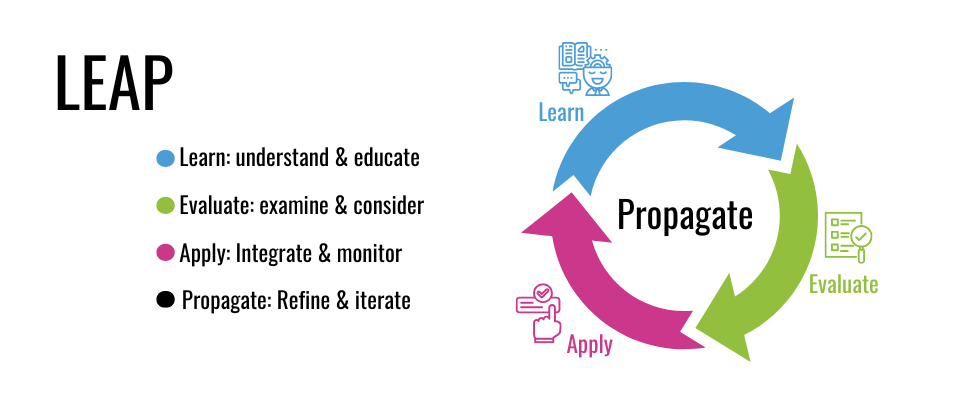
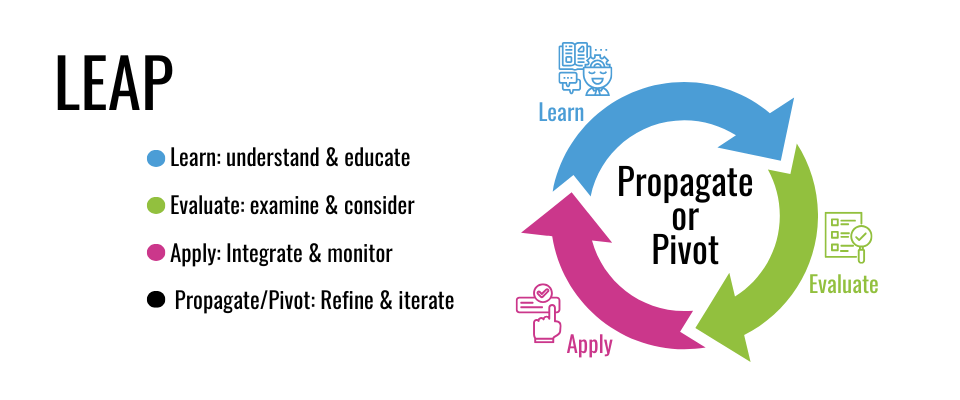
feat: update presentation slides with new LEAP image and refine content for clarity and consistency

diff --git a/theme/styles/layout.css b/theme/styles/layout.css
@@ -13,7 +13,7 @@
 }
 
 .slidev-layout {
-  @apply p-10 h-full flex flex-col;
+  @apply p-10 h-full flex flex-col text-xl;
 
   h1,
   h2,
@@ -30,11 +30,11 @@
   }
 
   h1 {
-    @apply text-6xl mb-4;
+    @apply text-5xl mb-4;
   }
 
   h2 {
-    @apply text-4xl;
+    @apply text-3xl;
   }
 
   h3 {
@@ -60,6 +60,10 @@
 
   h1 + p {
     @apply -mt-3 opacity-70;
+  }
+
+  p {
+    @apply text-xl;
   }
 
   p + h2,
@@ -111,7 +115,7 @@
 
   b,
   strong {
-    @apply font-600;
+    @apply font-900;
   }
 
   kbd {

diff --git a/slides.md b/slides.md
@@ -87,14 +87,14 @@ layout: default
 
 ---
 layout: new-section
-sectionImage: /images/LEAP.png
+sectionImage: /images/LEAP-cycle.png
 imageWidth: 512
-imageHeight: 341
+imageHeight: 512
 ---
 
 # Introducing the LEAP Framework: A Practical Compass
 
-## Learn, Experiment, Assess, Propagate/Plan
+## Learn, Experiment, Assess, Propagate/Pivot
 
 ---
 layout: default
@@ -115,7 +115,7 @@ sectionImage: /images/core-principles.jpg
 
 # Core Principles of Effective AI Adoption
 
-## Foundational to Smart Adoption and LEAP
+## Foundational Principals to Smart Adoption & LEAP
 
 ---
 layout: default
@@ -123,9 +123,9 @@ layout: default
 
 # Six Core Principles
 
-- **Strategic Alignment:** AI initiatives must solve specific problems aligned with business goals. Define _why_ before _what_.
+- **Strategic:** AI initiatives must solve specific problems aligned with business goals. Define _why_ before _what_.
 - **Data Readiness & Governance:** Strong data quality, accessibility, security, and governance are essential. Poor data leads to failure.
-- **Skills & Culture:** Requires technical skills and a supportive culture encouraging experimentation and learning.
+- **Skills & Culture:** Requires technical skills and a supportive culture encouraging experimentation, sharing, and learning.
 - **Technology & Infrastructure:** Select the right tools compatible with existing workflows.
 - **Ethics & Responsibility:** Integrate ethical considerations (fairness, transparency, privacy, security) from the start.
 - **Iterative Approach:** Start with small pilots, learn, and scale successful initiatives.
@@ -134,7 +134,7 @@ layout: default
 layout: new-section
 ---
 
-# The LEAP Framework for Software Teams
+# The LEAP Framework for Teams
 
 ## Actionable Steps for Smart Adoption
 
@@ -146,12 +146,17 @@ layout: default
 
 - **Understand AI capabilities and limitations**.
 - **Activities:**
-  - Identify pain points in the SDLC.
+  - Identify pain points in your process.
   - Research relevant AI tools and advancements.
   - Assess team skills and identify gaps.
   - Evaluate data availability and quality.
   - Consider ethical and security implications.
-  - Define **SMART goals** for experiments.
+  - Define **SMART** goals for experiments.
+    1.  Specific
+    2.  Measurable
+    3.  Achievable
+    4.  Relevant
+    5.  Time-bound
 - **Output:** Prioritized use cases, readiness assessment, defined success metrics.
 
 ---
@@ -161,7 +166,7 @@ layout: default
 # EXPERIMENT
 
 - Focus on small-scale, controlled pilots to test hypotheses.
-- **Activities:**
+- **Activities**
   - Select a low-risk pilot project.
   - Choose specific AI tool/model.
   - Develop and execute a prototype or limited integration.
@@ -169,7 +174,7 @@ layout: default
 - **Output:** Working prototype, performance data, developer feedback, lessons learned.
 - **Share:** Share your prototype, performance data, feedback, and those lessons learned.
 
-## Experimenting and sharing is large part of expanding the usage and benefits of AI
+## Experimenting and sharing is a large part of expanding the usage and benefits of AI
 
 ---
 layout: default
@@ -446,12 +451,13 @@ layout: default
 layout: default
 ---
 
-# The Enduring Value of LEAP
+# The Value of LEAP
 
-- A practical, repeatable process for wise AI adoption.
-- **Learn** thoroughly before acting.
+- A simple, practical, repeatable process for wise AI adoption.
+- **Learn** before acting.
 - **Experiment** in a controlled manner.
 - **Assess** results critically.
+- **Share** the results and lessons learned
 - **Propagate/Plan** successful initiatives sustainably.
 - Integrates data, skills, ethics, and governance.
 - Fits naturally with agile development.
@@ -468,6 +474,12 @@ layout: default
 - Define a clear goal for a small experiment.
 - Start the LEAP cycle and embrace the learning process.
 - Chart a course for wise AI adoption that delivers real value.
+
+## How you apply this is up to you and your team(s)
+
+- A single team to explore
+- Multiple teams based on context
+- Many teams based on their experience and responsibility
 
 ## Share your successes and failures!
 
